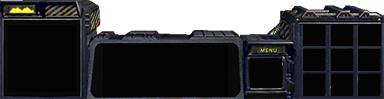
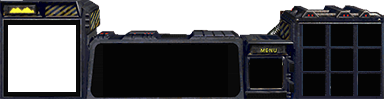
commit

Changed region(s): [[0.0, 0.2424, 0.2188, 0.9394]]

diff --git a/StarCraft/scenes/UIScene.js b/StarCraft/scenes/UIScene.js
@@ -6,9 +6,11 @@ class UIScene extends Phaser.Scene {
     }
 
     create(){
+        this.graphics = this.add.graphics();
         var gameScene=this.scene.get('GameScene');
-        this.minimap = gameScene.cameras.add(20, HEIGHT-350, WIDTH*0.2, HEIGHT*0.3).setZoom(0.2).setName('mini');
-        
+        this.minimap = gameScene.cameras.add(20, HEIGHT-450, WIDTH*0.2, HEIGHT*0.3).setZoom(0.2).setName('mini');
+        this.minimap.ignore(GameScene.group);
+
         var ui=this.add.sprite(0, 0, 'uiBg').setScale(5);
         Phaser.Display.Align.In.BottomCenter(ui, gameScene.bg);
         this.setButton(WIDTH-290,HEIGHT-300);
@@ -19,6 +21,16 @@ class UIScene extends Phaser.Scene {
         this.data.set('supply', 100);
         this.data.set('MaxSupply', 200);
         new Resource(this,WIDTH-450,50,'ui');
+
+    }
+
+    update(){
+        this.graphics.clear();
+        GameScene.group.children.iterate(function (obj) {
+            var scale=0.2;
+            this.graphics.fillStyle(0x00ff00, 2);
+            this.graphics.fillRect(20 +obj.x*scale, HEIGHT-450+obj.y*scale, 10, 10);
+        }.bind(this));
     }
 
     setButton(x,y){

diff --git a/StarCraft/scenes/IntroScene.js b/StarCraft/scenes/IntroScene.js
@@ -41,7 +41,7 @@ class ProgressScene extends Phaser.Scene{
         }.bind(this));
         
         this.load.on('fileprogress', function (file) {
-            console.log('Loading asset : ' + this.percent + ' ' + file.type + ' : ' + file.key);
+            // console.log('Loading asset : ' + this.percent + ' ' + file.type + ' : ' + file.key);
             this.percentText.setText('Loading asset : ' + this.percent + ' ' + file.type + ' : ' + file.key);
         }.bind(this));
 
